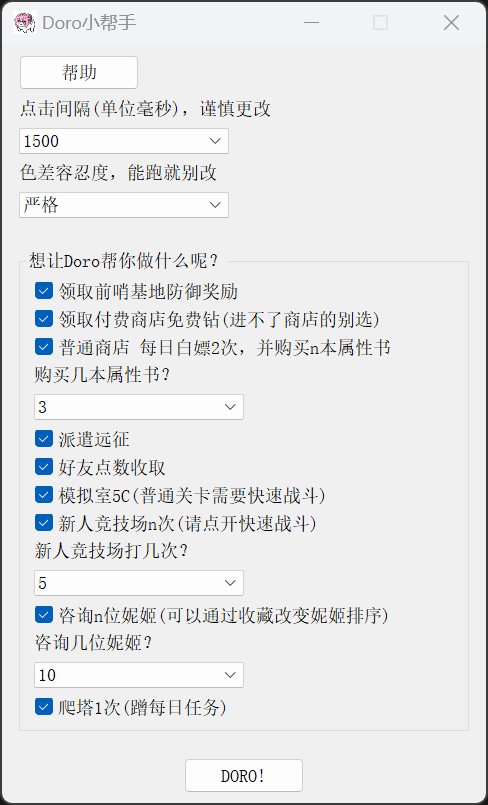
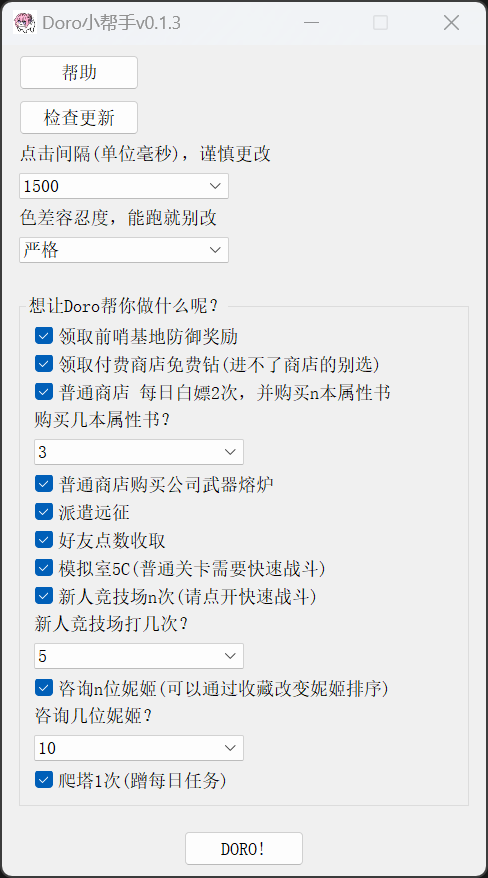
fix

diff --git a/README.md b/README.md
@@ -37,7 +37,7 @@ PC端自用日常任务清理助手：DoroHelper
   
 - **免费商店**
   
-  _普通商店每天白嫖2次，竞技场购买自定义数量的属性技能书_
+  _普通商店每天白嫖2次，竞技场购买自定义数量的属性技能书，购买公司武器熔炉_
 
 - **派遣远征和收菜**
   
@@ -94,3 +94,7 @@ PC端自用日常任务清理助手：DoroHelper
 如果出现死循环，提高点击间隔可以解决80%的问题。
 
 如果你的电脑配置较好的话，或许可以尝试降低点击间隔。
+
+# 借物表
+
+<https://github.com/samfisherirl/Github.ahk-API-for-AHKv2>
